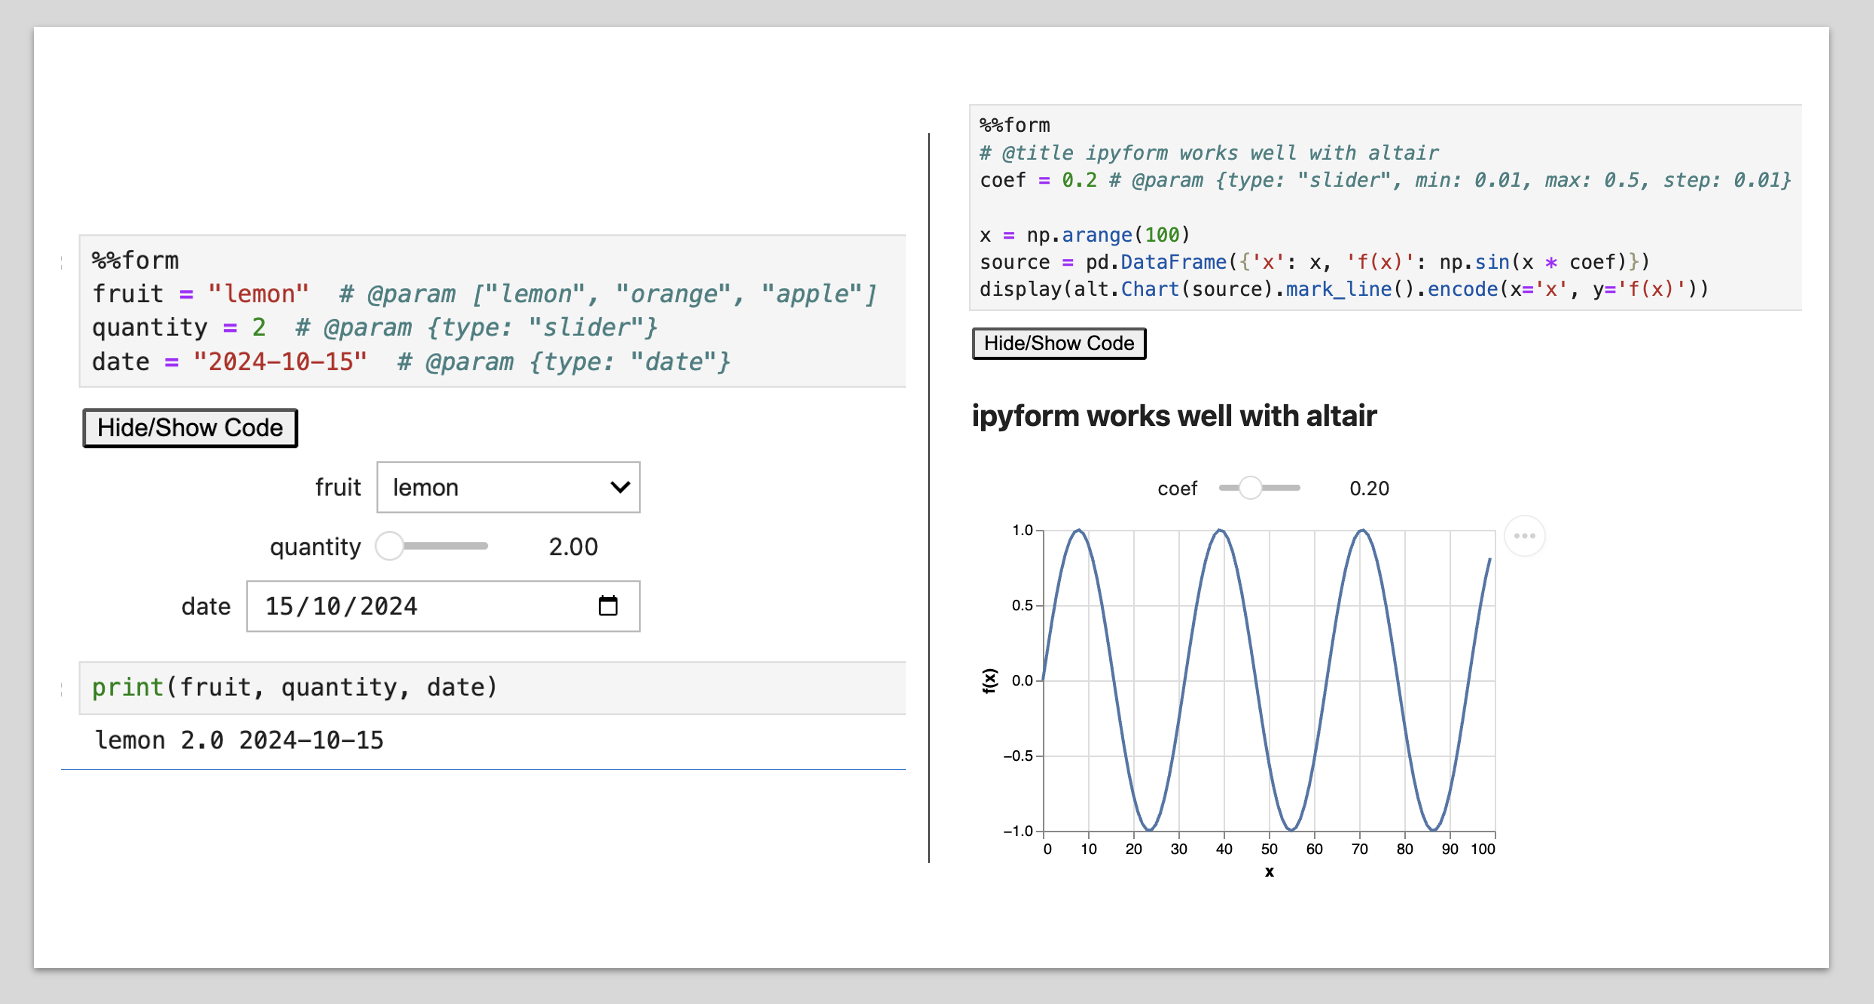
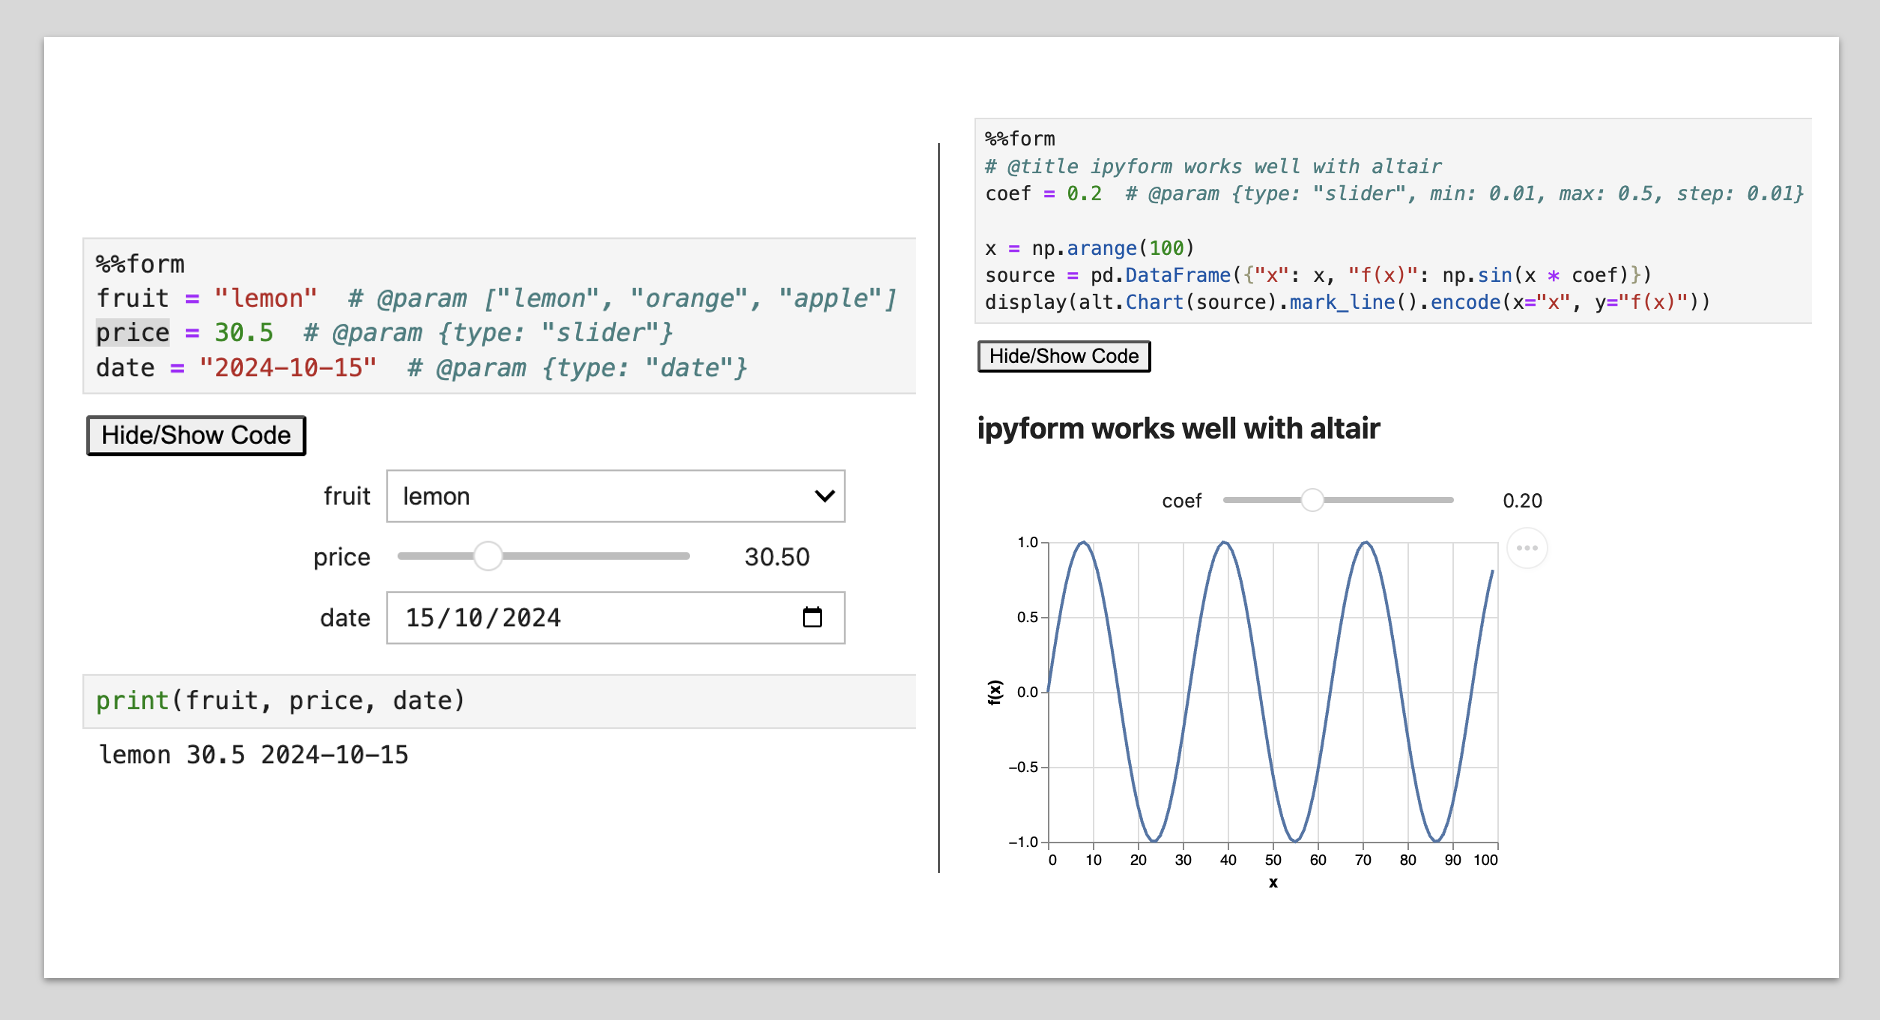
fix: Fix field widths

diff --git a/tests/test_widgets.py b/tests/test_widgets.py
@@ -74,11 +74,11 @@ b = a + 1 # @param {type: integer}
     if not in_vscode:
         f_str = f_str.replace(id_[0], "myid")
         assert f_str == snapshot(
-            "FormWidget(children=(VBox(children=(HTML(value='<button onClick=\"code_toggle(\\'myid\\')\" id=\"myid\">Hide/Show Code</button>'), HTML(value='<h2>MyTitle</h2>'), HTML(value='<h3>subtitle</h3>'), Box(children=(Text(value='2', continuous_update=False, description='a', placeholder='', style=TextStyle(description_width='150px')),), layout=Layout(display='grid', grid_template_columns='auto auto auto')), HTML(value='<h3>subtitle2</h3>'), Box(children=(Text(value='a + 1', continuous_update=False, description='b', placeholder='', style=TextStyle(description_width='150px')),), layout=Layout(display='grid', grid_template_columns='auto auto auto')), Output())),))"
+            "FormWidget(children=(VBox(children=(HTML(value='<button onClick=\"code_toggle(\\'myid\\')\" id=\"myid\">Hide/Show Code</button>'), HTML(value='<h2>MyTitle</h2>'), HTML(value='<h3>subtitle</h3>'), Box(children=(Text(value='2', continuous_update=False, description='a', layout=Layout(width='400px'), placeholder='', style=TextStyle(description_width='150px')),), layout=Layout(display='grid', grid_template_columns='auto auto auto')), HTML(value='<h3>subtitle2</h3>'), Box(children=(Text(value='a + 1', continuous_update=False, description='b', layout=Layout(width='400px'), placeholder='', style=TextStyle(description_width='150px')),), layout=Layout(display='grid', grid_template_columns='auto auto auto')), Output())),))"
         )
     else:
         assert f_str == snapshot(
-            "FormWidget(children=(VBox(children=(HTML(value=''), HTML(value='<h2>MyTitle</h2>'), HTML(value='<h3>subtitle</h3>'), Box(children=(Text(value='2', continuous_update=False, description='a', placeholder='', style=TextStyle(description_width='150px')),), layout=Layout(display='grid', grid_template_columns='auto auto auto')), HTML(value='<h3>subtitle2</h3>'), Box(children=(Text(value='a + 1', continuous_update=False, description='b', placeholder='', style=TextStyle(description_width='150px')),), layout=Layout(display='grid', grid_template_columns='auto auto auto')), Output())),))"
+            "FormWidget(children=(VBox(children=(HTML(value=''), HTML(value='<h2>MyTitle</h2>'), HTML(value='<h3>subtitle</h3>'), Box(children=(Text(value='2', continuous_update=False, description='a', layout=Layout(width='400px'), placeholder='', style=TextStyle(description_width='150px')),), layout=Layout(display='grid', grid_template_columns='auto auto auto')), HTML(value='<h3>subtitle2</h3>'), Box(children=(Text(value='a + 1', continuous_update=False, description='b', layout=Layout(width='400px'), placeholder='', style=TextStyle(description_width='150px')),), layout=Layout(display='grid', grid_template_columns='auto auto auto')), Output())),))"
         )
 
 

diff --git a/src/ipyform/widgets.py b/src/ipyform/widgets.py
@@ -31,29 +31,30 @@ class Field:
 def param_to_field(p: Param) -> Field:
     kwargs = dict(
         description=p.variable,
-        value=p.value,
-        continuous_update=False,
+        value=str(p.value),
         style={"description_width": "150px"},
+        layout=dict(width="400px"),
     )
     w_field = None
     if p.field_type == "dropdown":
-        kwargs["value"] = str(p.value)
         if p.allow_input:
-            w_field = w.Combobox(options=p.options, **kwargs)
+            w_field = w.Combobox(options=p.options, continuous_update=False, **kwargs)
         else:
-            kwargs.pop("continuous_update")
             w_field = w.Dropdown(options=p.options, **kwargs)
     elif p.field_type == "slider":
-        w_field = w.FloatSlider(min=p.min, max=p.max, step=p.step, **kwargs)
+        kwargs["value"] = p.value
+        w_field = w.FloatSlider(
+            min=p.min, max=p.max, step=p.step, continuous_update=False, **kwargs
+        )
     elif p.field_type == "input":
         if p.var_type == "boolean":
-            kwargs.pop("continuous_update")
+            kwargs["value"] = p.value
             w_field = w.Checkbox(**kwargs)
         elif p.var_type == "date":
-            w_field = w.DatePicker(value=date.fromisoformat(p.value), description=p.variable)
+            kwargs["value"] = date.fromisoformat(p.value)
+            w_field = w.DatePicker(**kwargs)
         else:
-            kwargs["value"] = str(p.value)
-            w_field = w.Text(**kwargs, placeholder=p.placeholder or "")
+            w_field = w.Text(**kwargs, continuous_update=False, placeholder=p.placeholder or "")
     else:  # pragma: no cover
         raise ValueError(f"Unknown field type: {p.field_type}")
     return Field(param=p, widget=w_field)

diff --git a/src/ipyform/ipython_ext.py b/src/ipyform/ipython_ext.py
@@ -52,8 +52,7 @@ def form(args_str, cell, local_ns):
         logger.warning(f"Error at line {err.lineno}. {err.error}")
     col = args.col or CONFIG.get("col", 1)
     layout = dict(display="grid", grid_template_columns="auto " * col)
-    f = FormWidget(form_data, layout=layout, ns=local_ns)
-    display(f)
+    return FormWidget(form_data, layout=layout, ns=local_ns)
 
 
 @magic_arguments()
